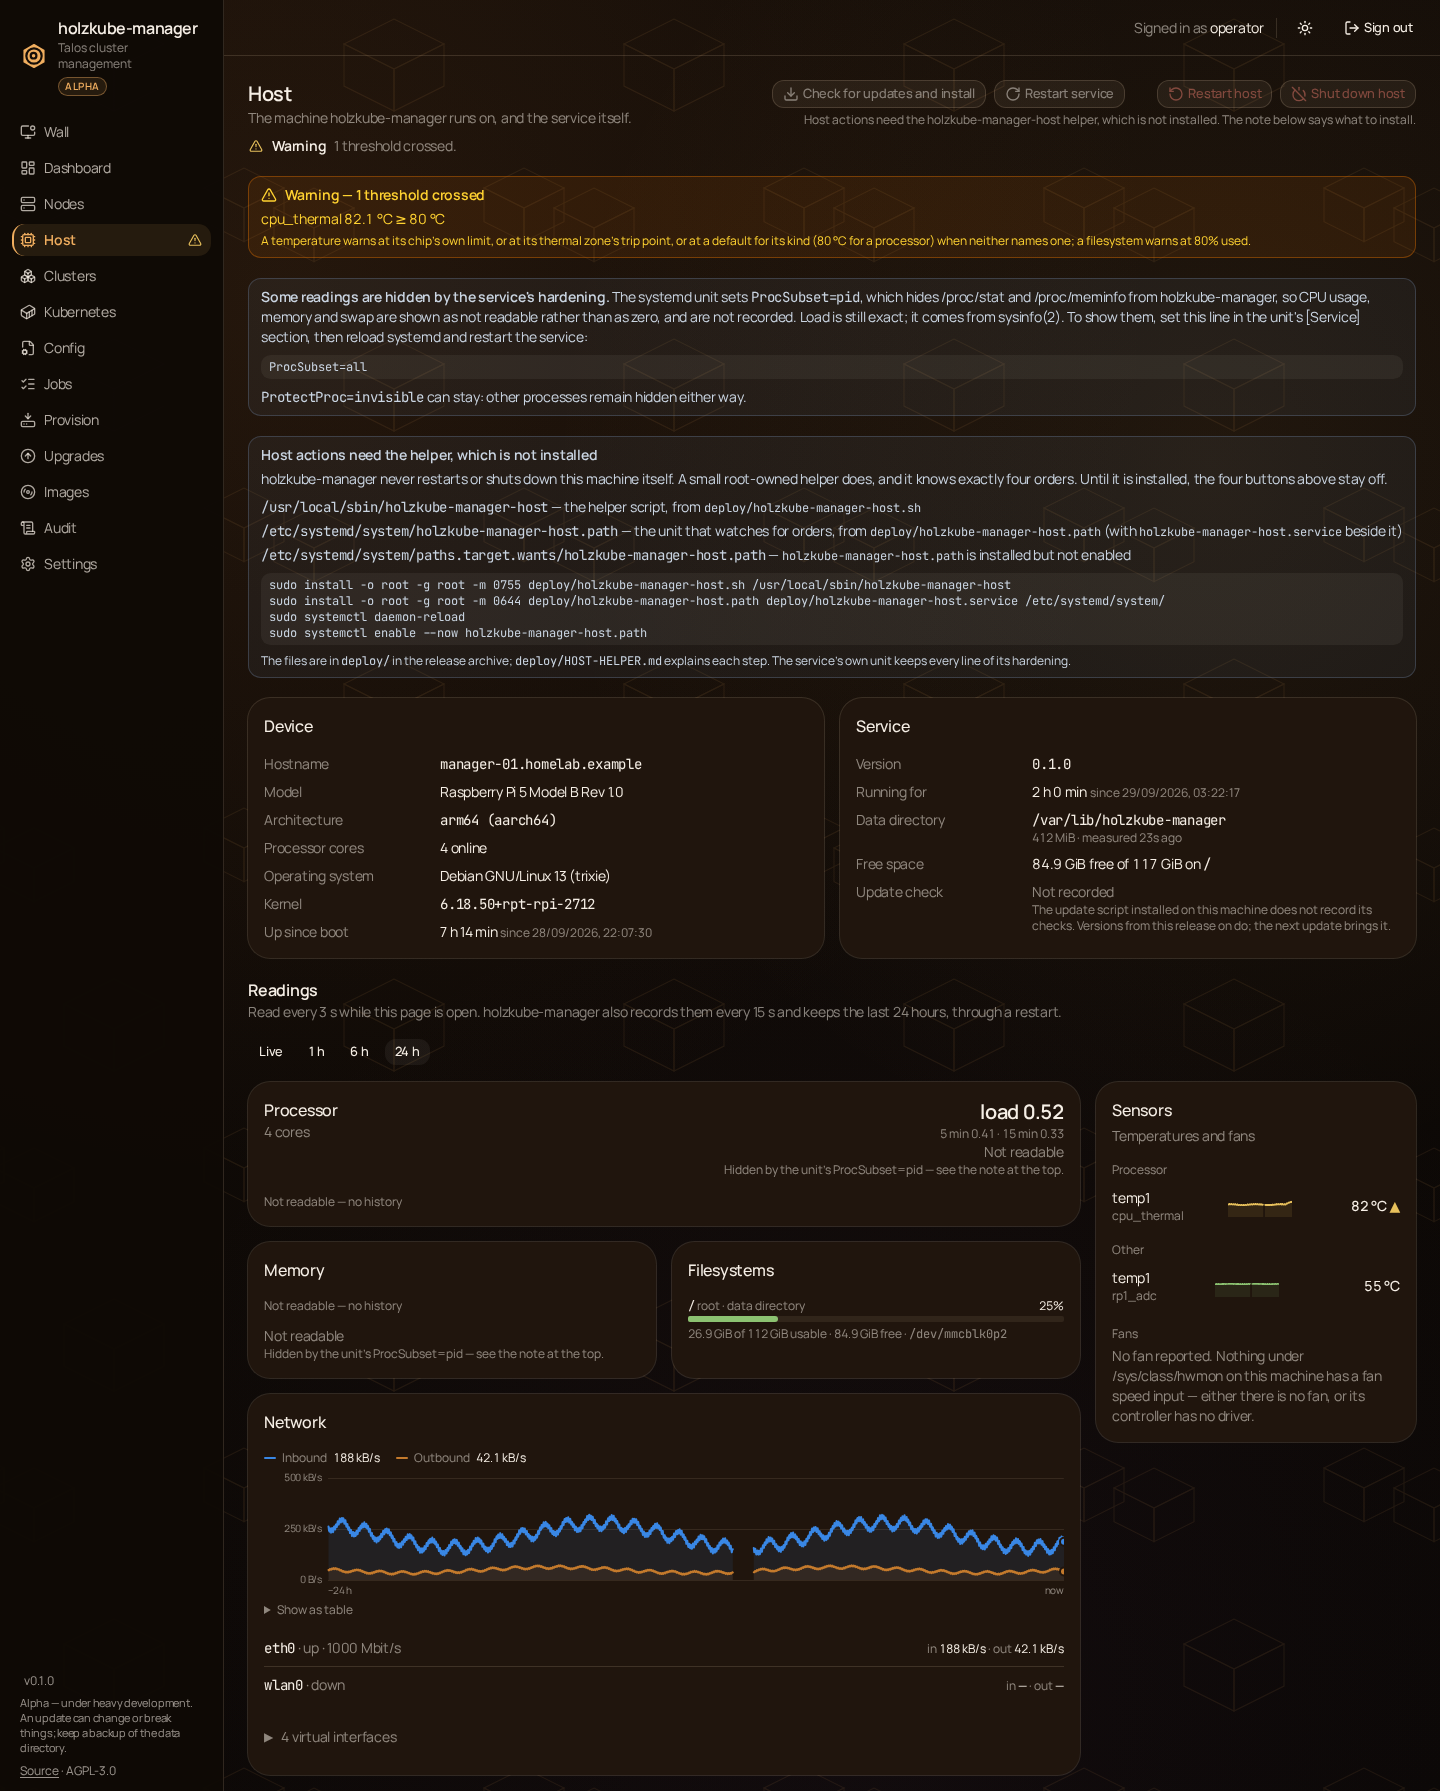
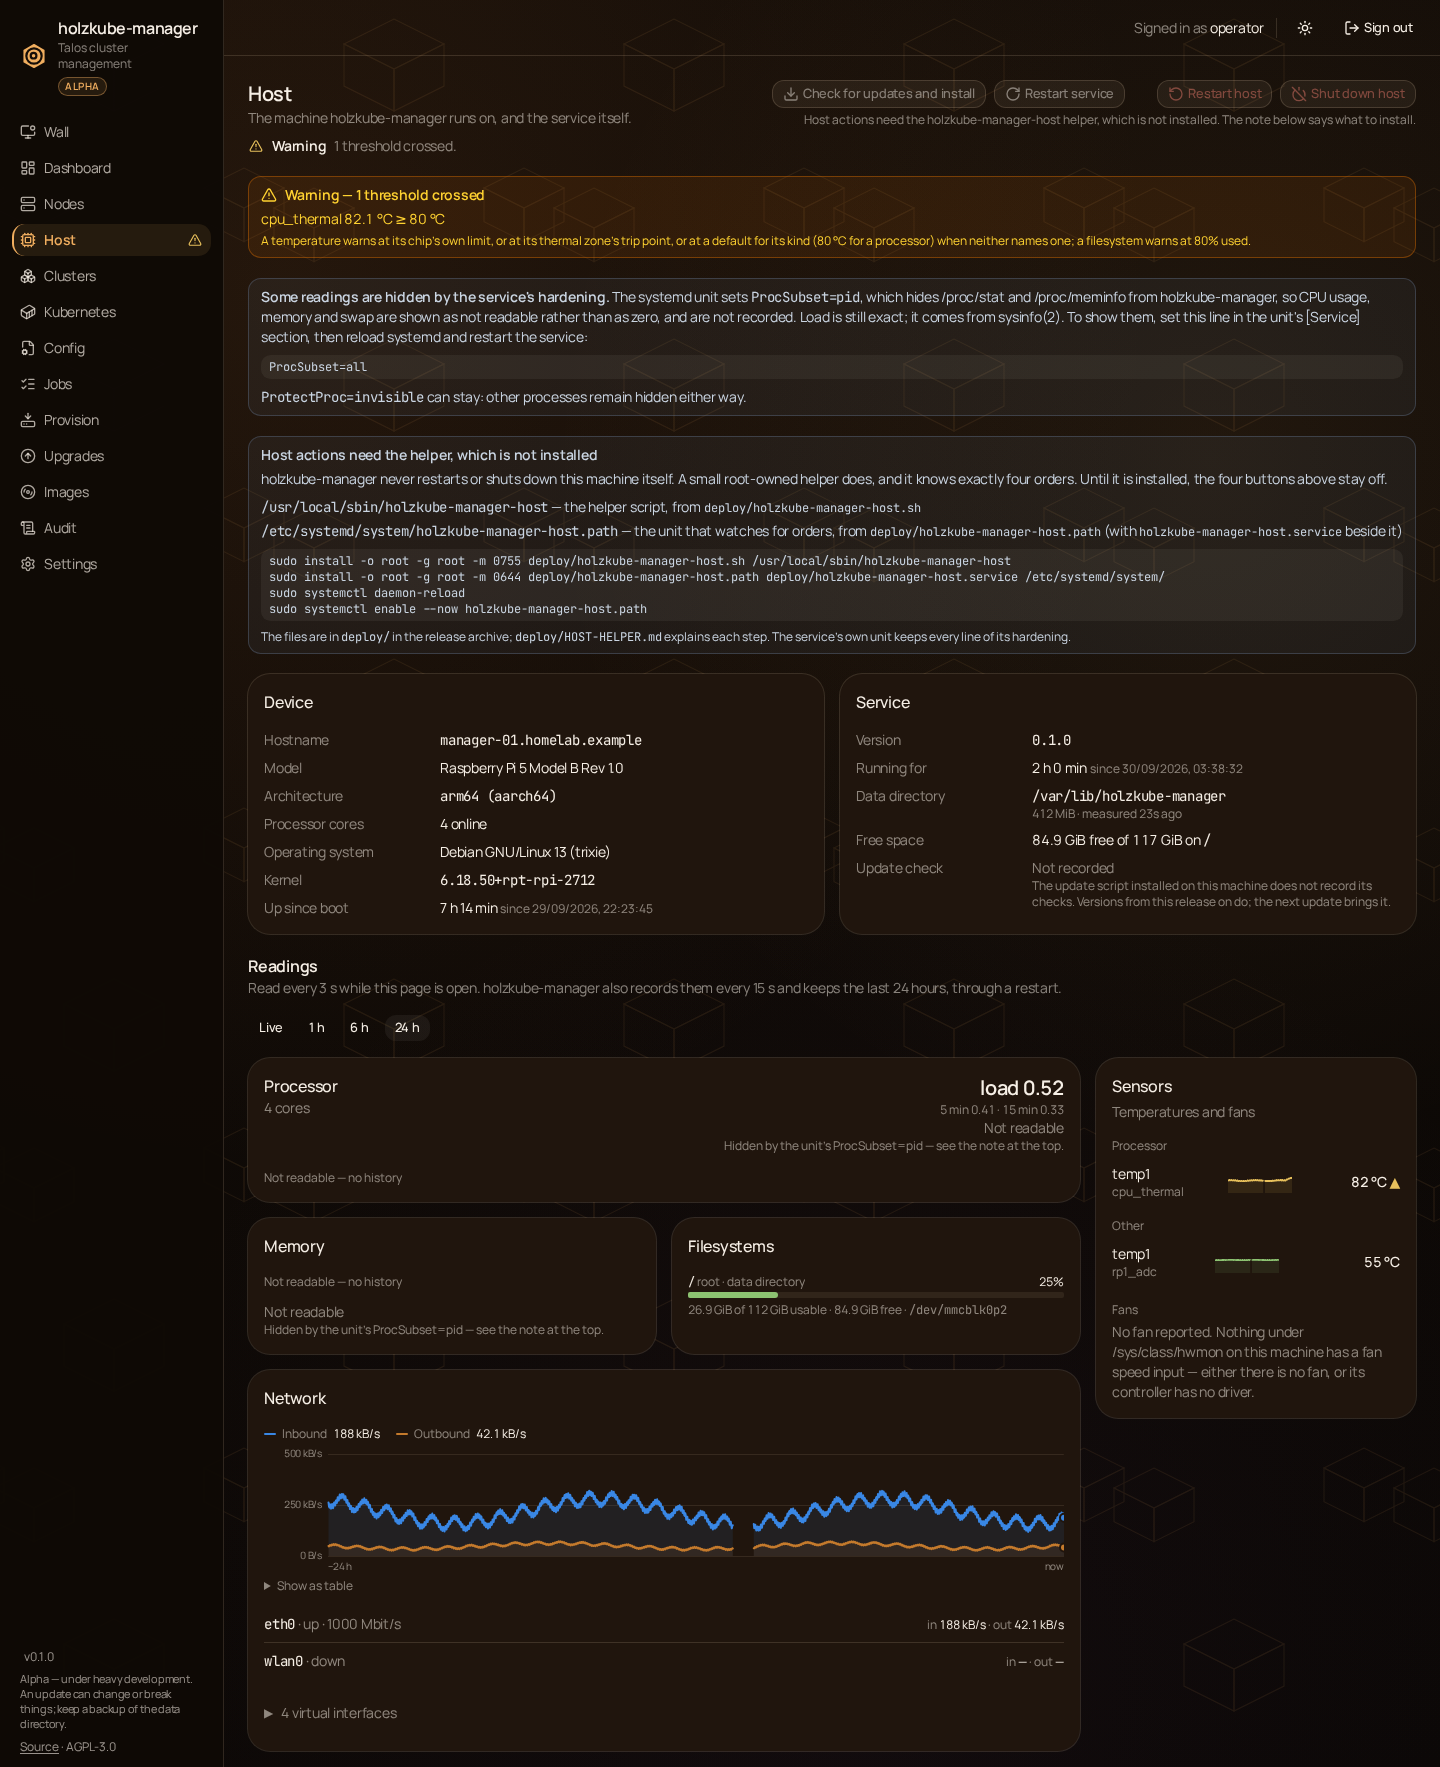
docs(13-10): fixture, contract and host picture show the two-item helper list
- demo.json's helper-missing state lists script and path-unit only
- TestTheFixtureShowsTheRealInstallCommands expects exactly that list
  from Detect on an empty machine and refuses a fixture naming path-unit
  and not-enabled together (seen red with the old entry put back)
- api-contract: not-enabled is listed only with both unit files present
- host.png re-rendered from the fixture; no other picture changed

diff --git a/web/src/fixtures.test.ts b/web/src/fixtures.test.ts
@@ -157,7 +157,7 @@ describe('the layout guard’s fixtures', () => {
 
     expect(host.container).toBe(false)
     expect(host.actions.available).toBe(false)
-    expect(host.actions.missing.map((m) => m.item)).toEqual(['script', 'path-unit', 'not-enabled'])
+    expect(host.actions.missing.map((m) => m.item)).toEqual(['script', 'path-unit'])
     expect(host.actions.install_commands.length).toBeGreaterThanOrEqual(1)
     expect(host.actions.order).toBeNull()
   })

diff --git a/internal/host/hostaction/units_test.go b/internal/host/hostaction/units_test.go
@@ -612,8 +612,8 @@ var demoFixture = filepath.Join("..", "..", "..", "web", "fixtures", "demo.json"
 
 // TestTheFixtureShowsTheRealInstallCommands: the README's picture of /host is
 // rendered from web/fixtures/demo.json, and the fixture shows the helper as
-// the operator's machine has it until it is installed -- not available, all
-// three pieces missing, the commands that install it. Were the fixture to keep
+// the operator's machine has it until it is installed -- not available, the
+// script and the unit files missing, the commands that install it. Were the fixture to keep
 // a copy of commands this package no longer has, the picture would show an
 // operator lines the guide does not have. So the fixture's missing list is
 // what Detect reports on a machine with nothing installed, and its commands
@@ -661,11 +661,24 @@ func TestTheFixtureShowsTheRealInstallCommands(t *testing.T) {
 
 	// Nothing installed: what Detect reports on an empty machine, in its order.
 	want := Detect(fstest.MapFS{})
-	if len(want) != 3 {
-		t.Fatalf("Detect on an empty machine reports %d pieces, want 3: %v", len(want), want)
+	if exact := []Missing{
+		{Item: MissingScript, Path: HelperScriptPath},
+		{Item: MissingPathUnit, Path: PathUnitPath},
+	}; !slices.Equal(want, exact) {
+		t.Fatalf("Detect on an empty machine reports %v, want %v", want, exact)
 	}
 	if !slices.Equal(a.Missing, want) {
 		t.Errorf("the fixture's missing list is %v, want what Detect reports with nothing installed: %v", a.Missing, want)
+	}
+	// The sentence G-13-2 found false: a path unit that is missing is not
+	// "installed but not enabled".
+	var pathUnit, notEnabled bool
+	for _, m := range a.Missing {
+		pathUnit = pathUnit || m.Item == MissingPathUnit
+		notEnabled = notEnabled || m.Item == MissingNotEnabled
+	}
+	if pathUnit && notEnabled {
+		t.Errorf("the fixture's missing list %v names path-unit and not-enabled together", a.Missing)
 	}
 	for _, m := range a.Missing {
 		switch m.Path {

diff --git a/docs/api-contract.md b/docs/api-contract.md
@@ -1863,8 +1863,13 @@ out a reboot nobody asked for any more. So:
     `/etc/systemd/system/holzkube-manager-host.service`, whichever of the two
     unit files is absent or not a regular file (one item for the pair);
   - `not-enabled`, path
-    `/etc/systemd/system/paths.target.wants/holzkube-manager-host.path`: the
-    units are there but the path unit is not enabled.
+    `/etc/systemd/system/paths.target.wants/holzkube-manager-host.path`: both
+    unit files are there but the path unit is not enabled. It is listed only
+    then: while either unit file is missing the item is `path-unit` alone,
+    because a unit that is not installed cannot be enabled, and the install
+    commands enable it in the same run.
+
+  The list is empty exactly when all of the helper is installed.
 
   The daemon reads these files and asks systemd nothing -- its unit gives it no
   way to reach systemd, and that hardening stays. A path unit that is enabled
@@ -1884,8 +1889,7 @@ operator installs it -- the same object reads:
   "available": false,
   "missing": [
     {"item": "script", "path": "/usr/local/sbin/holzkube-manager-host"},
-    {"item": "path-unit", "path": "/etc/systemd/system/holzkube-manager-host.path"},
-    {"item": "not-enabled", "path": "/etc/systemd/system/paths.target.wants/holzkube-manager-host.path"}
+    {"item": "path-unit", "path": "/etc/systemd/system/holzkube-manager-host.path"}
   ],
   "install_commands": ["…the four lines above…"]
 }
